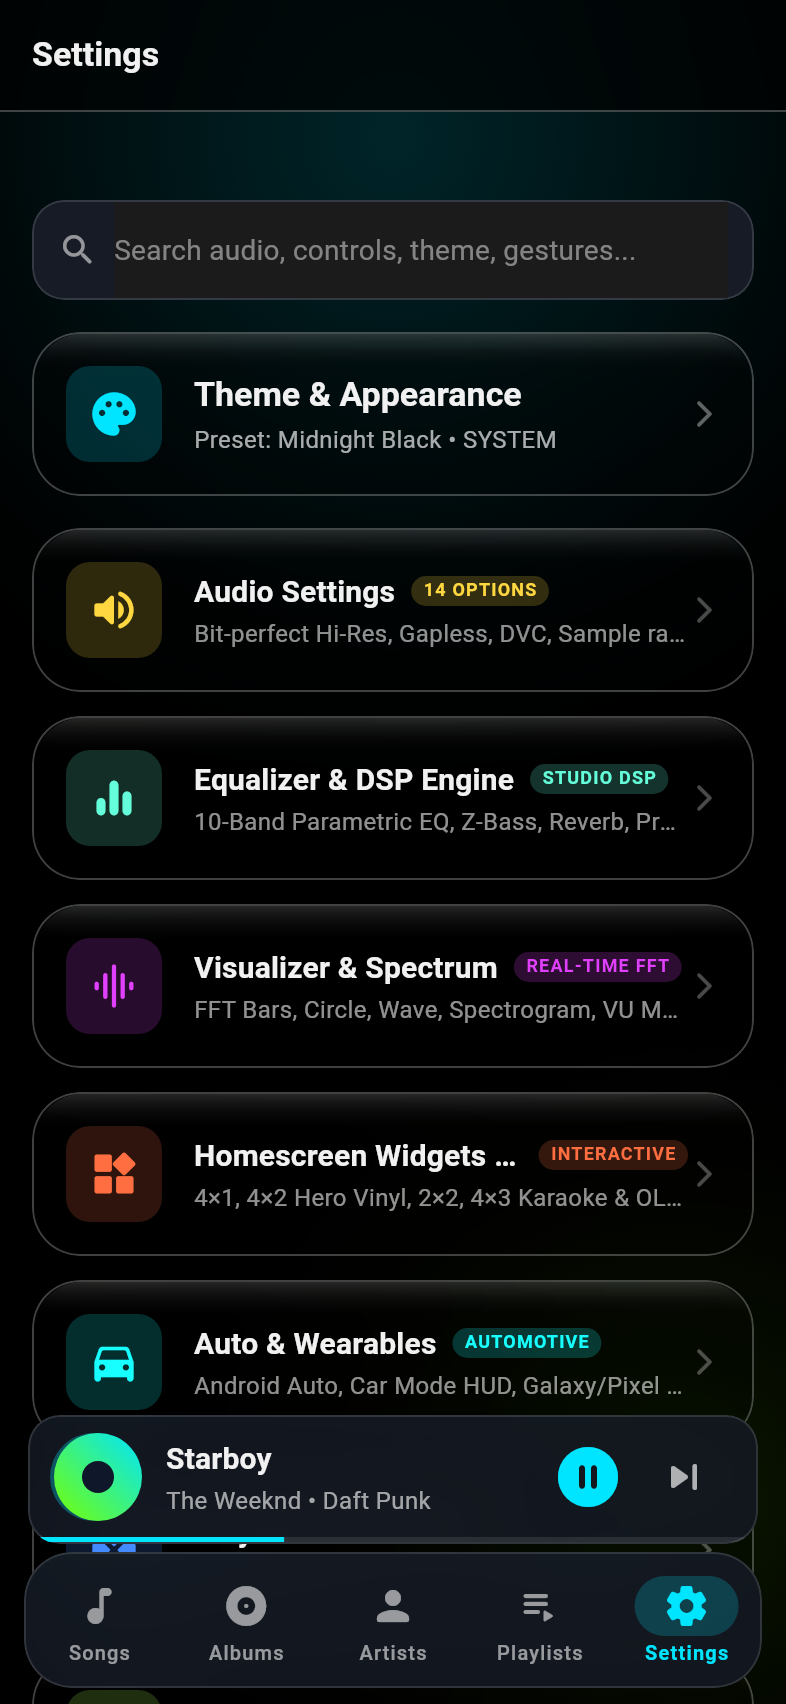
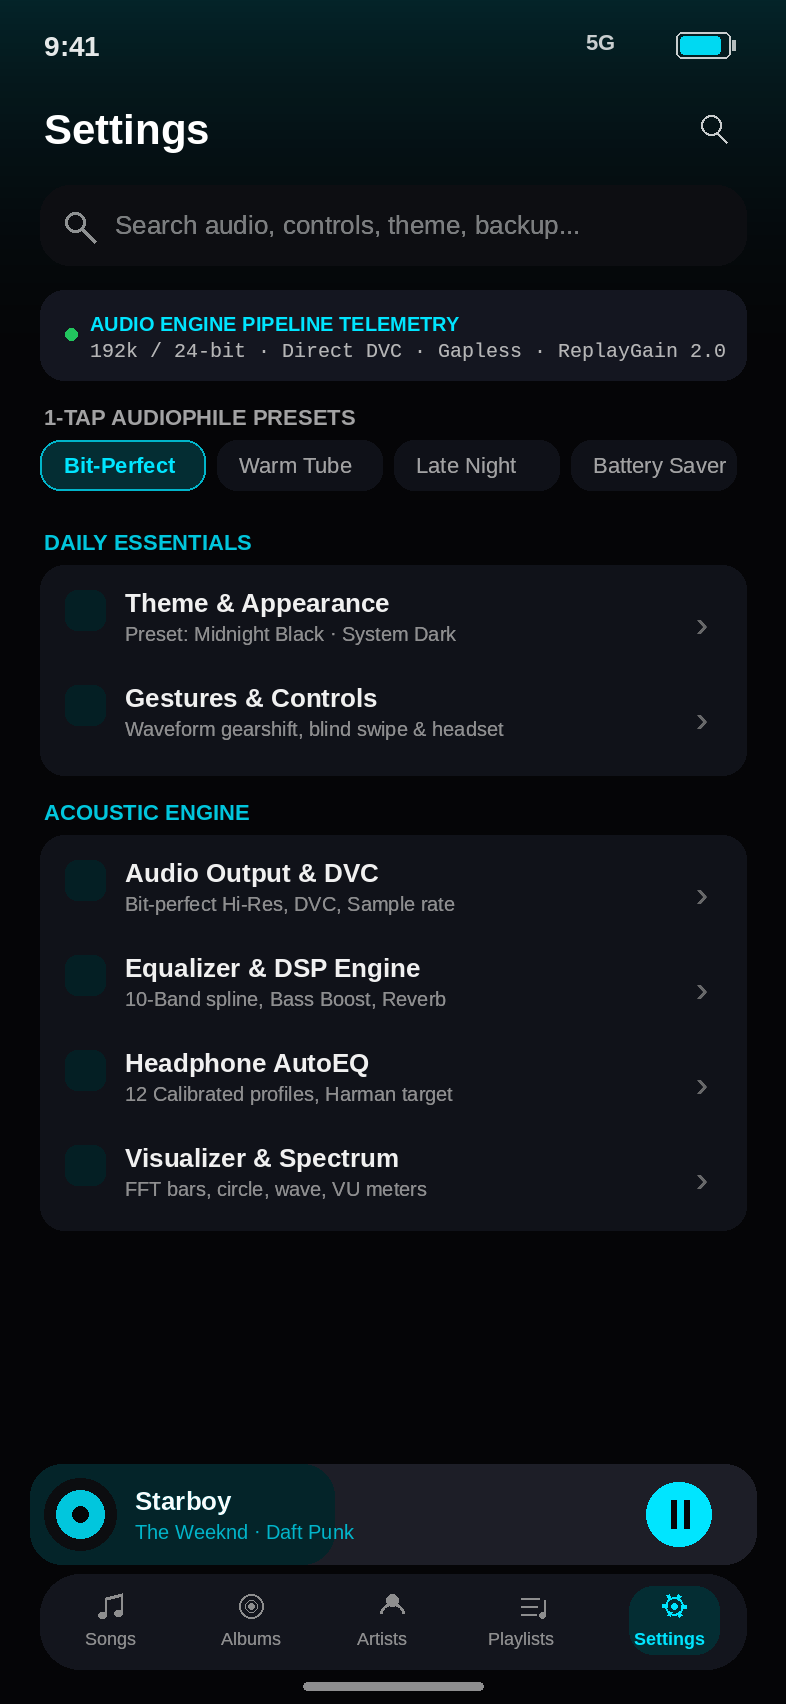
docs(screenshots): update UI portfolio with borderless tactile standard and screens 40-42

diff --git a/test/helpers/generate_ui_screenshots_test.dart b/test/helpers/generate_ui_screenshots_test.dart
@@ -17,13 +17,16 @@ import 'package:nexa_player/core/theme/theme_state.dart';
 import 'package:nexa_player/features/auto/auto.dart';
 import 'package:nexa_player/features/cloud/cloud.dart';
 import 'package:nexa_player/features/equalizer/domain/services/equalizer_service.dart';
+import 'package:nexa_player/features/equalizer/presentation/screens/autoeq_picker_screen.dart';
 import 'package:nexa_player/features/library/presentation/screens/album_detail_screen.dart';
 import 'package:nexa_player/features/library/presentation/screens/artist_detail_screen.dart';
 import 'package:nexa_player/features/library/presentation/screens/folders_tab_screen.dart';
+import 'package:nexa_player/features/library/presentation/screens/sonic_constellation_screen.dart';
 import 'package:nexa_player/features/lyrics/lyrics.dart';
 import 'package:nexa_player/features/playlists/presentation/screens/playlist_detail_screen.dart';
 import 'package:nexa_player/features/playlists/presentation/screens/ringtone_trimmer_screen.dart';
 import 'package:nexa_player/features/player/presentation/providers/player_providers.dart';
+import 'package:nexa_player/features/player/presentation/screens/desktop_studio_dock.dart';
 import 'package:nexa_player/features/player/presentation/screens/standby_mode_screen.dart';
 import 'package:nexa_player/features/search/search.dart';
 import 'package:nexa_player/features/settings/settings.dart';
@@ -35,8 +38,7 @@ import 'package:nexa_player/shared/models/playlist.dart';
 import 'package:nexa_player/shared/models/track.dart';
 import 'package:shared_preferences/shared_preferences.dart';
 
-const String _kOutDirPath =
-    '/home/alirezaabd/.gemini/antigravity/brain/9a4e382c-d6b7-45ad-83c1-21f1a8158d7f/screenshots';
+const String _kOutDirPath = 'docs/screenshots';
 
 Future<void> _loadFonts() async {
   final fontLoaderRoboto = FontLoader('Roboto');
@@ -685,6 +687,57 @@ void main() {
       filename: '39_dlna_cast_picker.png',
     );
     await modalDiscovery.dispose();
+
+    // =========================================================================
+    // 3.30 - 3.32 DSP Inventions & Desktop Studio (Phase 4 & Phase 6)
+    // =========================================================================
+
+    // 3.30 Offline Headphone AutoEQ Calibration Profiles (Task 6.5)
+    await _captureWidget(
+      tester: tester,
+      widget: ProviderScope(
+        child: MaterialApp(
+          debugShowCheckedModeBanner: false,
+          theme: darkTheme,
+          home: const AutoEqPickerScreen(),
+        ),
+      ),
+      filename: '40_headphone_autoeq_picker.png',
+    );
+
+    // 3.31 Sonic Constellation 2D Mood & BPM Star Map (Task 6.6)
+    await _captureWidget(
+      tester: tester,
+      widget: ProviderScope(
+        child: MaterialApp(
+          debugShowCheckedModeBanner: false,
+          theme: darkTheme,
+          home: const SonicConstellationScreen(),
+        ),
+      ),
+      filename: '41_sonic_constellation_map.png',
+    );
+
+    // 3.32 Desktop Studio Dock Inspector (Task 4.4)
+    await _captureWidget(
+      tester: tester,
+      widget: ProviderScope(
+        child: MaterialApp(
+          debugShowCheckedModeBanner: false,
+          theme: darkTheme,
+          home: const Scaffold(
+            backgroundColor: Color(0xFF050507),
+            body: SizedBox(
+              width: 320,
+              height: 800,
+              child: DesktopStudioDock(),
+            ),
+          ),
+        ),
+      ),
+      filename: '42_desktop_studio_dock.png',
+      size: const Size(320 * 2.0, 800 * 2.0),
+    );
 
     // =========================================================================
     // 4. Multi-Theme Variations (Daylight Light Mode & Sakura Pink Preset)

diff --git a/README.md b/README.md
@@ -12,19 +12,46 @@
 
 ## 📸 Visual Showcase
 
-### Primary Library & Player Experience
-| Songs & Frosted Tiles | 3D Vinyl Albums Grid | Now Playing & Rotating Vinyl |
+### Section 1: Hero Audio & Tactile DSP
+| Now Playing & Gearshift Scrubber | 10-Band Catmull-Rom Spline EQ | Precision Ringtone Trimmer |
 | :---: | :---: | :---: |
-| <img src="docs/screenshots/01_songs_tab.png" width="260" alt="Songs Tab" /> | <img src="docs/screenshots/02_albums_grid.png" width="260" alt="Albums Grid" /> | <img src="docs/screenshots/14_now_playing_screen.png" width="260" alt="Now Playing Screen" /> |
+| <img src="docs/screenshots/14_now_playing_screen.png" width="260" alt="Now Playing Screen" /> | <img src="docs/screenshots/18_equalizer_dsp_screen.png" width="260" alt="Equalizer Screen" /> | <img src="docs/screenshots/19_ringtone_trimmer_screen.png" width="260" alt="Ringtone Trimmer" /> |
 
-| Artists & Glowing Rings | Album Detail & Tracklist | Folders Hierarchy |
+| Kinetic Synced Lyrics | Real-Time FFT Spectrum Visualizer | Bottom-Anchored Smart Search |
 | :---: | :---: | :---: |
-| <img src="docs/screenshots/04_artists_tab.png" width="260" alt="Artists Tab" /> | <img src="docs/screenshots/03_album_detail.png" width="260" alt="Album Detail" /> | <img src="docs/screenshots/08_folders_tab.png" width="260" alt="Folders Tab" /> |
+| <img src="docs/screenshots/20_lyrics_screen.png" width="260" alt="Synced Lyrics Screen" /> | <img src="docs/screenshots/24_visualizer_spectrum.png" width="260" alt="Visualizer Screen" /> | <img src="docs/screenshots/21_search_screen.png" width="260" alt="Search Screen" /> |
 
-### Themes & Adaptive Layout
-| Theme Presets & Dark Mode | Custom HSL Editor & WCAG AA | Responsive Desktop / Tablet |
+### Section 2: Core Library Navigation & Detail Views
+| Borderless Songs & Mini-Player | 3D Vinyl Albums Grid | Album Detail Hero Dissolve |
 | :---: | :---: | :---: |
-| <img src="docs/screenshots/11_theme_picker.png" width="260" alt="Theme Picker" /> | <img src="docs/screenshots/12_custom_theme_editor.png" width="260" alt="Custom HSL Theme Editor" /> | <img src="docs/screenshots/17_desktop_layout.png" width="260" alt="Responsive Desktop Layout" /> |
+| <img src="docs/screenshots/01_songs_tab.png" width="260" alt="Songs Tab" /> | <img src="docs/screenshots/02_albums_grid.png" width="260" alt="Albums Grid" /> | <img src="docs/screenshots/03_album_detail.png" width="260" alt="Album Detail" /> |
+
+| Circular Artist Avatars | Playlists Tab & Energy Ribbon | Folders Storage Browser |
+| :---: | :---: | :---: |
+| <img src="docs/screenshots/04_artists_tab.png" width="260" alt="Artists Tab" /> | <img src="docs/screenshots/06_playlists_tab.png" width="260" alt="Playlists Tab" /> | <img src="docs/screenshots/08_folders_tab.png" width="260" alt="Folders Tab" /> |
+
+### Section 3: Signature Audiophile Inventions & Studio Dock
+| Headphone AutoEQ Calibration | Sonic Constellation 2D Star Map | Desktop Studio Dock Inspector |
+| :---: | :---: | :---: |
+| <img src="docs/screenshots/40_headphone_autoeq_picker.png" width="260" alt="AutoEQ Calibration Profiles" /> | <img src="docs/screenshots/41_sonic_constellation_map.png" width="260" alt="Sonic Constellation Map" /> | <img src="docs/screenshots/42_desktop_studio_dock.png" width="260" alt="Desktop Studio Dock" /> |
+
+### Section 4: Themes, Customization & Ergonomics
+| Live Theme Swatch Previews | Custom HSL / OKLCH Editor | High-Contrast Daylight Mode |
+| :---: | :---: | :---: |
+| <img src="docs/screenshots/11_theme_picker.png" width="260" alt="Theme Picker" /> | <img src="docs/screenshots/12_custom_theme_editor.png" width="260" alt="Custom HSL Theme Editor" /> | <img src="docs/screenshots/15_daylight_theme_songs.png" width="260" alt="Daylight Theme Mode" /> |
+
+### Section 5: Multi-Device Ecosystem, Auto & Wearables
+| AMOLED Blind Swipe Car Mode | Bedside Standby Turntable & Clock | Wear OS Smartwatch Remote |
+| :---: | :---: | :---: |
+| <img src="docs/screenshots/27_car_mode_dashboard.png" width="260" alt="Car Mode Dashboard" /> | <img src="docs/screenshots/26_standby_bedside_mode.png" width="260" alt="Standby Bedside Mode" /> | <img src="docs/screenshots/28_wear_os_companion.png" width="260" alt="Wear OS Companion" /> |
+
+### Section 6: Settings Hub & Cloud Streaming
+| 3-Tier Settings Hub & Status Strip | Audiophile Audio & Direct DVC | Cloud & Network Streaming Hub |
+| :---: | :---: | :---: |
+| <img src="docs/screenshots/09_settings_hub.png" width="260" alt="Settings Hub Screen" /> | <img src="docs/screenshots/23_audio_settings.png" width="260" alt="Audio Settings Screen" /> | <img src="docs/screenshots/37_cloud_streaming_hub.png" width="260" alt="Cloud Streaming Hub" /> |
+
+### Section 7: Responsive 3-Zone Desktop Studio Layout
+<img src="docs/screenshots/17_desktop_layout.png" width="800" alt="Responsive Desktop Studio Layout" />
 
 ---
 
